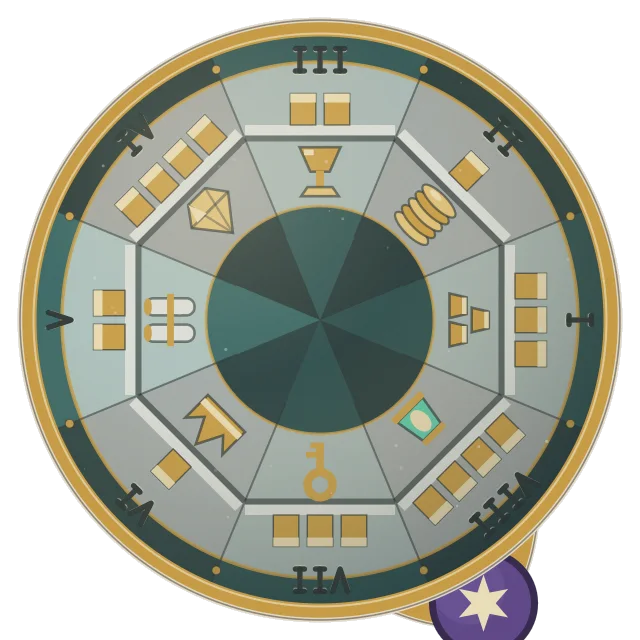
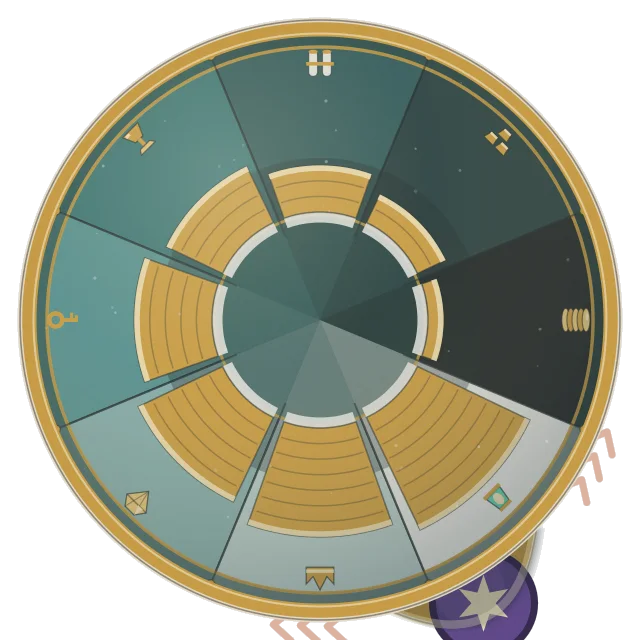
feat(labs/storybook): s7 speaks paper — the wheel counts, the tag is gone
S7R2-1b (art) + S7R2-2 (the print) + S7R2-4 (cues). First adopter of the
paper-cue vocabulary the systems patch landed.

THE WHEEL NOW MEANS SOMETHING. Eight rooms that each differed on three
axes is three axes of difference and no meaning: a reader clicks and three
little pictures swap for three others. Per the user's directive that an
interaction must transform something, the eight strongrooms are now ONE
room filling up eight times over — the tally runs 1..8 in order and drives
both the depth of the gold heaped in the room and the room's own lamp
level. The three vitrines always frame three CONSECUTIVE rooms, so at any
detent the reader is looking at a staircase of gold and one click marches
the whole staircase: the counting-house counting. The hoard is drawn as
the room's own annular sector (a fixed-width slab overflowed into both
neighbours at the sill, where a 22.5 deg wedge is only 0.31R across), and
the lamp ramp is MIXED rather than picked from palette names — laid end to
end those run 18, 22, 33, 63, 80, 118, 186, 242 in luminance, so the first
steps were 4 and 11 points and the dark half of the wheel measured at the
render noise floor.

THE TURN TAG IS GONE, under the no-labels law. In its place: a cut shadow
on every vitrine aperture, a raised edge on the faceplate rim and on the
thumb lobe that grips it, and one pair of ember chevrons riding the lobe
around the rim (on the DIAL, so they turn with the grip and can never
[…]

diff --git a/__tests__/labs/storybook/paper-cues.test.ts b/__tests__/labs/storybook/paper-cues.test.ts
@@ -315,16 +315,29 @@ describe('paper-cue vocabulary — subtlety ceilings', () => {
   })
 })
 
-describe('paper-cue vocabulary — additive, no existing art changed', () => {
+describe('paper-cue vocabulary — the register of who speaks paper', () => {
   // The vocabulary is MACHINERY. Adopting it — deleting a label plate and
   // painting a cue in its place — is per-spread scene work owned by the art
-  // lanes. Until a lane does that, no painter may reference these helpers, so
-  // every already-baked piece is byte-identical to what it was before.
+  // lanes, and this block is the REGISTER of who has done it. Every call site
+  // in the painter must be accounted for here, so a cue cannot spread quietly:
+  // adopting one means writing down which piece, and which mark, and why.
   //
-  // WHEN THE FIRST SPREAD ADOPTS A CUE: add its painter's name to ADOPTERS.
-  // The list is the record of which pieces speak paper instead of printing a
-  // verb, and this test then guards that the machinery is only used there.
-  const ADOPTERS: readonly string[] = []
+  // s7's counting wheel is the first adopter (S7R2-4). Its brass tag reading
+  // TURN is gone; what stands in its place is a cut on every vitrine, a raised
+  // edge on the faceplate rim and on the thumb lobe that grips it, and one pair
+  // of ember chevrons riding the lobe around the rim.
+  const ADOPTERS: Readonly<Record<string, readonly string[]>> = {
+    cutShadow: ['assayCard: the three vitrine apertures, die-cut through the faceplate'],
+    raisedEdgeShadow: [
+      'cofferLid: the shut lid, a loose ply sitting on its box',
+      'assayDial: the wax-seal thumb lobe standing proud of the plate',
+      'assayCard: the faceplate rim, a ply riveted over the wheel',
+    ],
+    cueArrow: [
+      'cofferLid: one ember arrow at the hasp, along the free edge travel',
+      'assayDial: the two ember chevron sets flanking the thumb lobe',
+    ],
+  }
 
   const source = readFileSync(SCRIPT_PATH, 'utf8')
 
@@ -337,14 +350,27 @@ describe('paper-cue vocabulary — additive, no existing art changed', () => {
       const callSites = [...source.matchAll(new RegExp(`(\\w+\\s+)?\\b${helper}\\(`, 'g'))].filter(
         (m) => m[1] !== 'function '
       )
-      expect(callSites.length).toBe(ADOPTERS.length)
+      expect(
+        callSites.length,
+        `${helper} has ${callSites.length} call sites and ${ADOPTERS[helper].length} declared — ` +
+          `a cue that spreads without being written down is a cue nobody reviewed`
+      ).toBe(ADOPTERS[helper].length)
     })
   }
 
-  it('the transitional label plates are nobody else’s business here', () => {
-    // This lane must not have touched a spread's art. If a plate disappears it
-    // is because that spread's own pass replaced it with a cue, in its own
-    // commit — so this file makes no assertion about plate contents at all.
-    expect(ADOPTERS).toEqual([])
+  it('the wheel that adopted the cues no longer prints a verb', () => {
+    // The user's law, gated on the one piece that has converted: the transitional
+    // brass plate is gone, and nothing put a word back in its place. Scoped to
+    // assayCard's own body so the other spreads' plates — which their own lanes
+    // will convert in their own commits — are none of this file's business.
+    // Sliced at the function's own closing brace at column 0. The line ending
+    // has to be tolerated: this file is checked out CRLF on the lane that wrote
+    // the gate, and an `\n}\n` search silently ran on to the NEXT function.
+    const body = source.slice(source.indexOf('function assayCard('))
+    const end = body.search(/\r?\n\}\r?\n/)
+    const card = body.slice(0, end < 0 ? body.length : end)
+    expect(card.length, 'assayCard body not found').toBeGreaterThan(200)
+    expect(card).not.toContain("'TURN'")
+    expect(card, 'assayCard is engraving words again').not.toContain('engraveWord')
   })
 })
